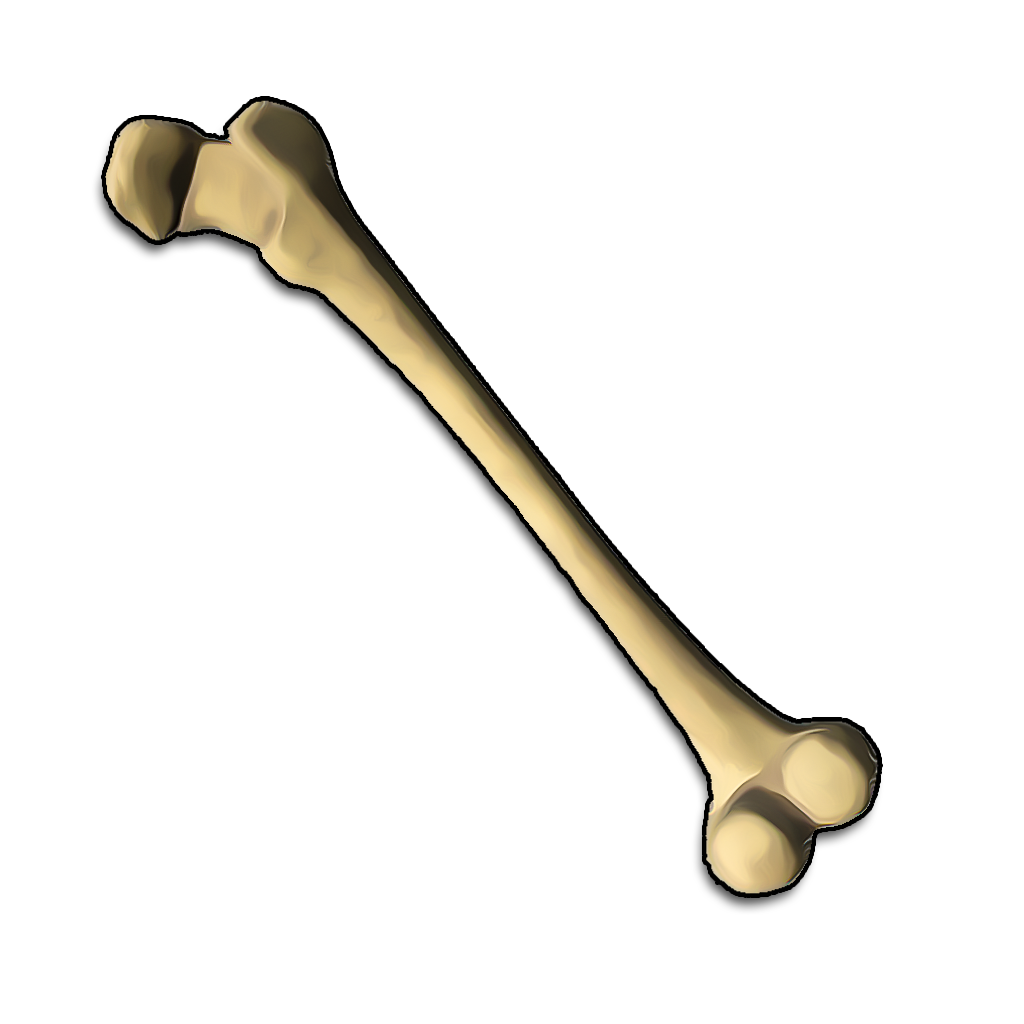
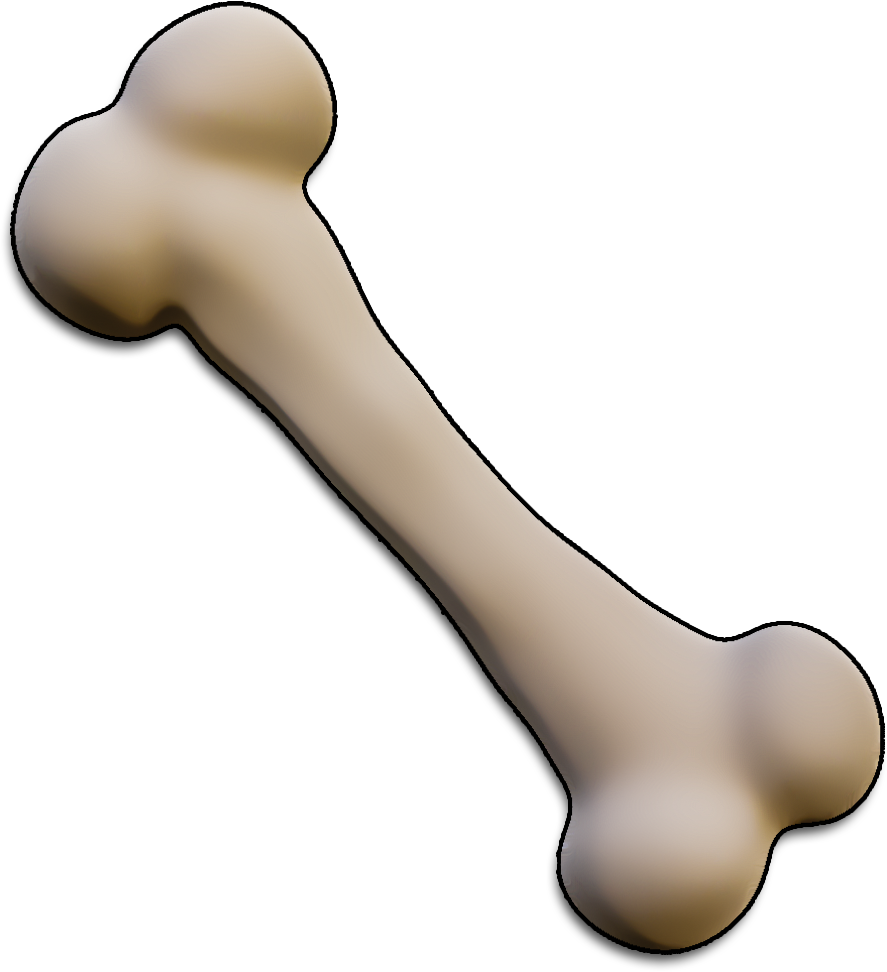
Diamond Removed From Inventory

Changed region(s): [[0.0, 0.0, 1.0, 1.0]]

diff --git a/Assets/InventoryUI.cs b/Assets/InventoryUI.cs
@@ -71,8 +71,14 @@ public class InventoryUI : MonoBehaviour {
                     }
                     else if ((ecoCounter < EconomyManager.instance.itemList.Count)&&(EconomyManager.instance.itemCount[ecoCounter] > 0))
                     {
-                        
-                        slots[i].AddItem(EconomyManager.instance.itemList[ecoCounter],EconomyManager.instance.itemCount[ecoCounter]);
+                        if (EconomyManager.instance.itemList[ecoCounter].name != "Diamond")
+                        {
+                            slots[i].AddItem(EconomyManager.instance.itemList[ecoCounter],EconomyManager.instance.itemCount[ecoCounter]);
+                        }
+                        else
+                        {
+                            slots[i].ClearSlot();
+                        }
                         ecoCounter++;
                     }
                     else

diff --git a/Assets/Script/Core/EconomyManager.cs b/Assets/Script/Core/EconomyManager.cs
@@ -31,6 +31,13 @@ public class EconomyManager : MonoBehaviour
 
     public int GetDiamond()
     {
+        int index = 0;
+        for (int i = 0; i < itemList.Count; i++)
+        {
+            index = itemList.FindIndex(r => r.name.Contains("Diamond"));
+            
+        }
+        diamond = itemCount[index]; 
         return diamond;
     }
 
